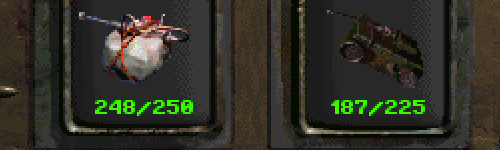
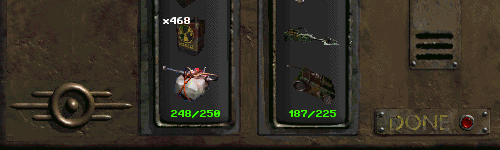
- Cleanup / Text corrections. - Better fix for the Survivalist Perk. - Exchanged all Fo2 perk descriptions with the text from Fo1.

diff --git a/Fallout2/Fallout1in2/mods/ShowLootWeight/Readme.md b/Fallout2/Fallout1in2/mods/ShowLootWeight/Readme.md
@@ -3,7 +3,7 @@
 Show Loot Weight
 ------------------
 
-This mod will enable the display of current / max carry weight numbers when looting objects.
+This mod adds a current / max carry weight indicator to the looting and stealing interface.
 
 ### Installation
 To use this mod, open the ddraw.ini, go to [ExtraPatches] and add "PatchFile[number]=mods\ShowLootWeight" at the end of the "PatchFile"-list!
